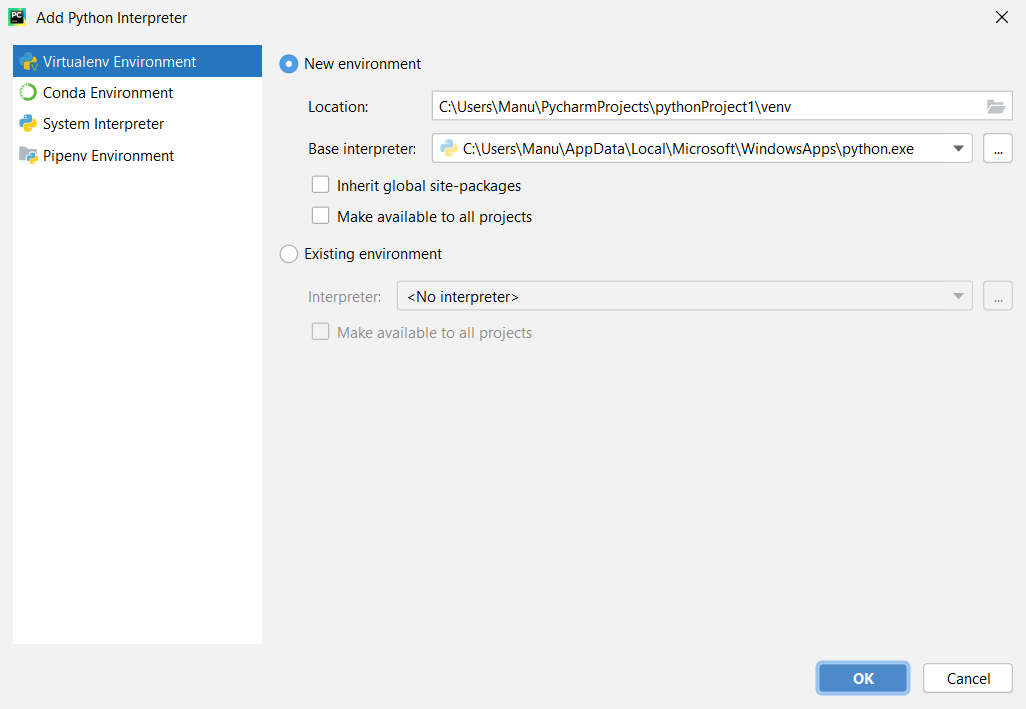
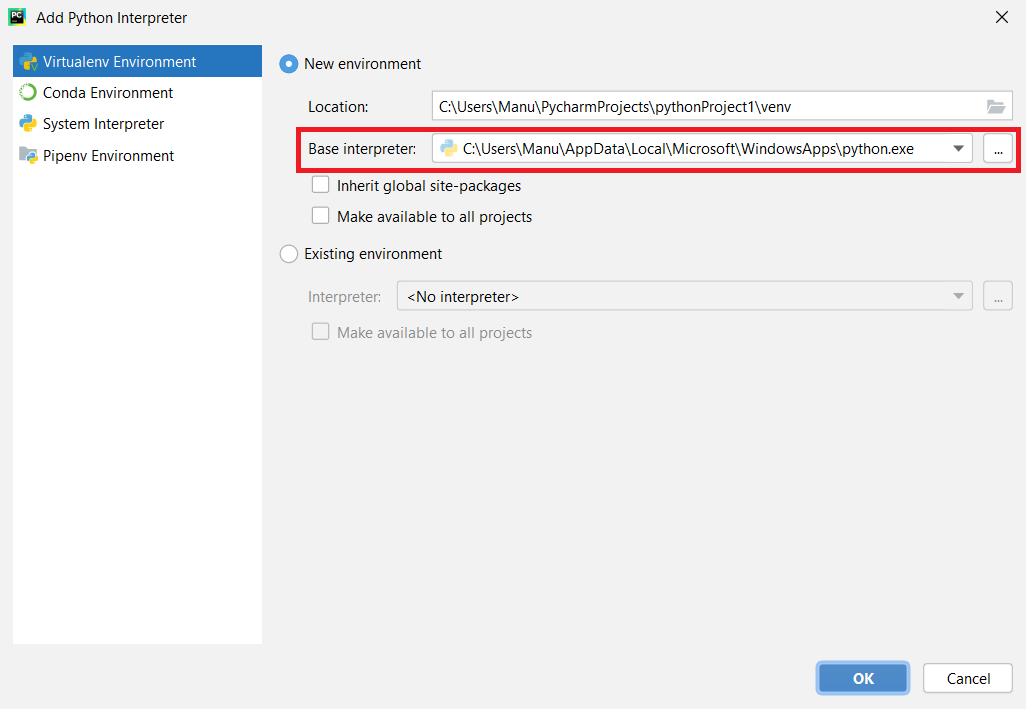
Cambios post Mycharm

Changed region(s): [[0.2807, 0.1551, 0.9981, 0.2482]]

diff --git a/docs/docs/programacion/2020-09-01-pycharm.md b/docs/docs/programacion/2020-09-01-pycharm.md
@@ -13,9 +13,9 @@ parent: Bloque 1 Programación
 ![Imagen]({{ site.baseurl }}/assets/post_pycharm/img1.png)
 {:refdef}
 
-PyCharm es un entorno de desarrollo integrado (IDE) específico para el lenguaje de programación Python. Está desarrollado por la compañía JetBrains y es uno de los más utilizados en el entorno profesional. Tiene integrado multitud de herramientas, como por ejemplo control de versiones, debugger, unit tester, soporte para Django, etc.
+PyCharm es un entorno de desarrollo integrado (IDE) específico para el lenguaje de programación Python. Está desarrollado por la compañía JetBrains y es uno de los más utilizados en el entorno profesional. Tiene integrado multitud de herramientas, como control de versiones, debugger, unit tester, soporte para Django, etc.
 
-Hay que tener en cuenta que tiene dos versiones, `Proffesional` y la `Community`. La primera es de pago, por lo que si bien la segunda está más limitada, para clase es suficiente para empezar a programar.
+Hay que tener en cuenta que existen dos versiones, `Proffesional` y  `Community`. La primera es de pago, por lo que si bien la segunda está más limitada, para clase es suficiente para empezar a programar.
 
 
 # Instalando y configurando el entorno
@@ -33,7 +33,7 @@ Simplemente vista <https://www.python.org/> y descarga la última versión dispo
 ![Imagen]({{ site.baseurl }}/assets/post_pycharm/img7.png)
 {:refdef}
 
-A continuación instala Python.
+Y, a continuación, instala Python.
 
 {:refdef: style="text-align: center;"}
 ![Imagen]({{ site.baseurl }}/assets/post_pycharm/img8.png)
@@ -41,7 +41,7 @@ A continuación instala Python.
 
 ## Instalación del IDE
 
-Una vez tenemos instalado Python es el turno de PyCharm.
+Una vez tenemos instalado Python es el turno de __PyCharm__.
 
 Descarga la versión `Community` de <https://www.jetbrains.com/es-es/pycharm/download/>
 
@@ -57,7 +57,7 @@ Y sigue el proceso de instalación.
 
 ## Primer proyecto
 
-Los programas se agrupan en proyectos, por lo que, una vez iniciado PyCharm, deberemos de crear uno nuevo.
+Los programas se agrupan en proyectos, por lo que, una vez iniciado __PyCharm__, deberemos de crear uno nuevo.
 
 {:refdef: style="text-align: center;"}
 ![Imagen]({{ site.baseurl }}/assets/post_pycharm/img4.png)
@@ -67,15 +67,15 @@ Los programas se agrupan en proyectos, por lo que, una vez iniciado PyCharm, deb
 ![Imagen]({{ site.baseurl }}/assets/post_pycharm/img5.png)
 {:refdef}
 
-Es posible que tengamos el siguie error.
+Es posible que tengamos el siguiente error en el primer proyecto que creemos.
 
 {:refdef: style="text-align: center;"}
 ![Imagen]({{ site.baseurl }}/assets/post_pycharm/img6.png)
 {:refdef}
 
-Esto es debido a que PyCharm no ha detectado instalado Python, por lo que deberemos de indicárselo manualmente.
+Esto es debido a que __PyCharm__ no ha seleccionado por defecto la instalación de Python, por lo que deberemos de indicárselo manualmente.
 
-Para ello pulsamos en la opción superior derecha y seleccionamos añadir intérprete.
+Para ello pulsamos en la opción superior derecha y seleccionamos añadir intérprete de Python.
 
 {:refdef: style="text-align: center;"}
 ![Imagen]({{ site.baseurl }}/assets/post_pycharm/img9.png)
@@ -88,5 +88,5 @@ Para ello pulsamos en la opción superior derecha y seleccionamos añadir intér
 En esa ventana cambiaremos el intéprete de Python por el que hemos instalado con anterioridad. Simplemente seleccionar la segunda opción del campo que se muestra en la imagen.
 
 {:refdef: style="text-align: center;"}
-![Imagen]({{ site.baseurl }}/assets/post_pycharm/img5.png)
+![Imagen]({{ site.baseurl }}/assets/post_pycharm/img11.png)
 {:refdef}
